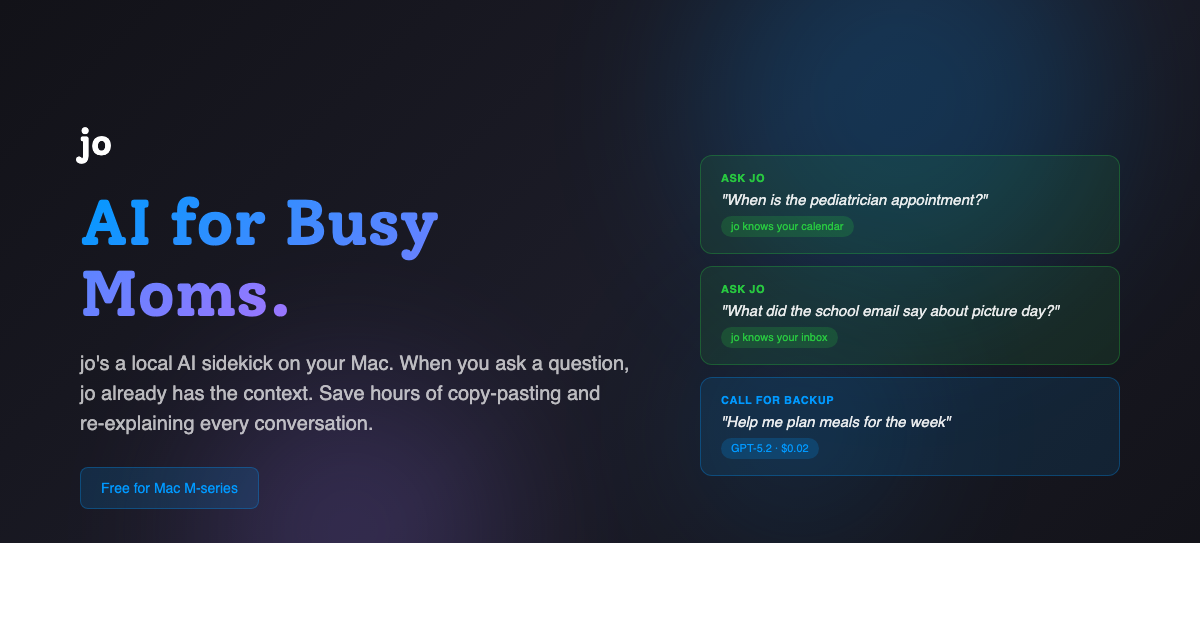
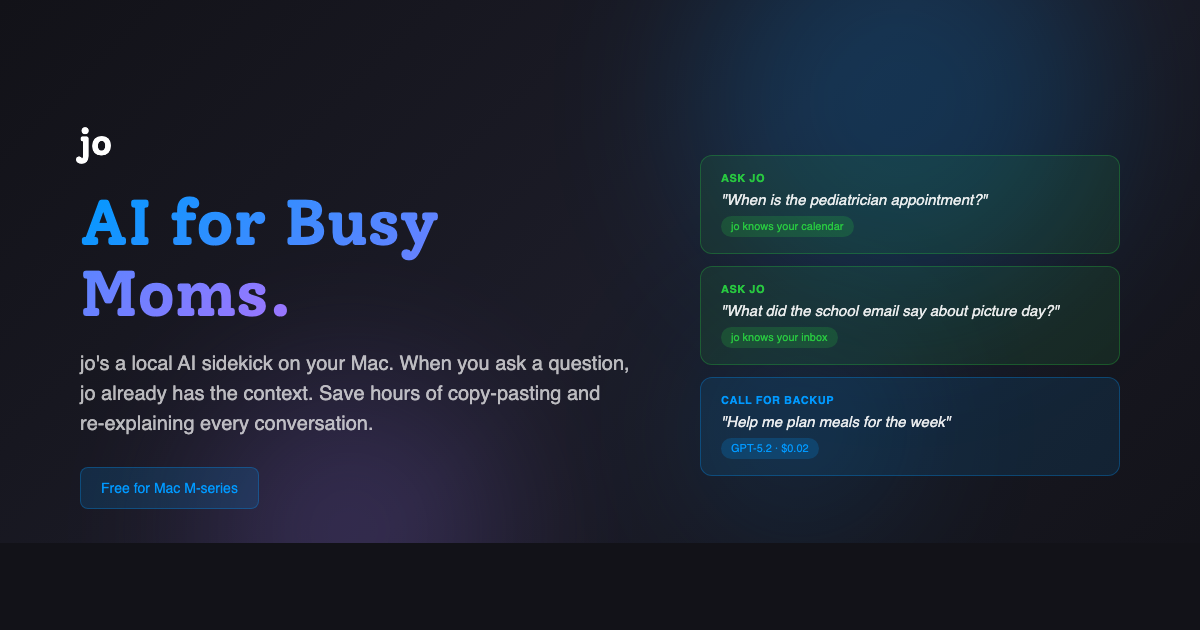
Fix og-image-v3 background rendering
🤖 Generated with [Claude Code](https://claude.com/claude-code)

Changed region(s): [[0.0, 0.8444, 1.0, 1.0]]

diff --git a/og-image-v3.html b/og-image-v3.html
@@ -12,13 +12,17 @@
             box-sizing: border-box;
         }
 
-        body {
+        html, body {
             width: 1200px;
             height: 630px;
             overflow: hidden;
+            background: rgb(18, 18, 24);
         }
 
         .og-container {
+            position: absolute;
+            top: 0;
+            left: 0;
             width: 1200px;
             height: 630px;
             background: linear-gradient(135deg, rgb(18, 18, 24) 0%, rgb(28, 28, 40) 50%, rgb(18, 18, 24) 100%);
@@ -26,7 +30,6 @@
             align-items: center;
             justify-content: space-between;
             padding: 60px 80px;
-            position: relative;
             overflow: hidden;
         }
 
